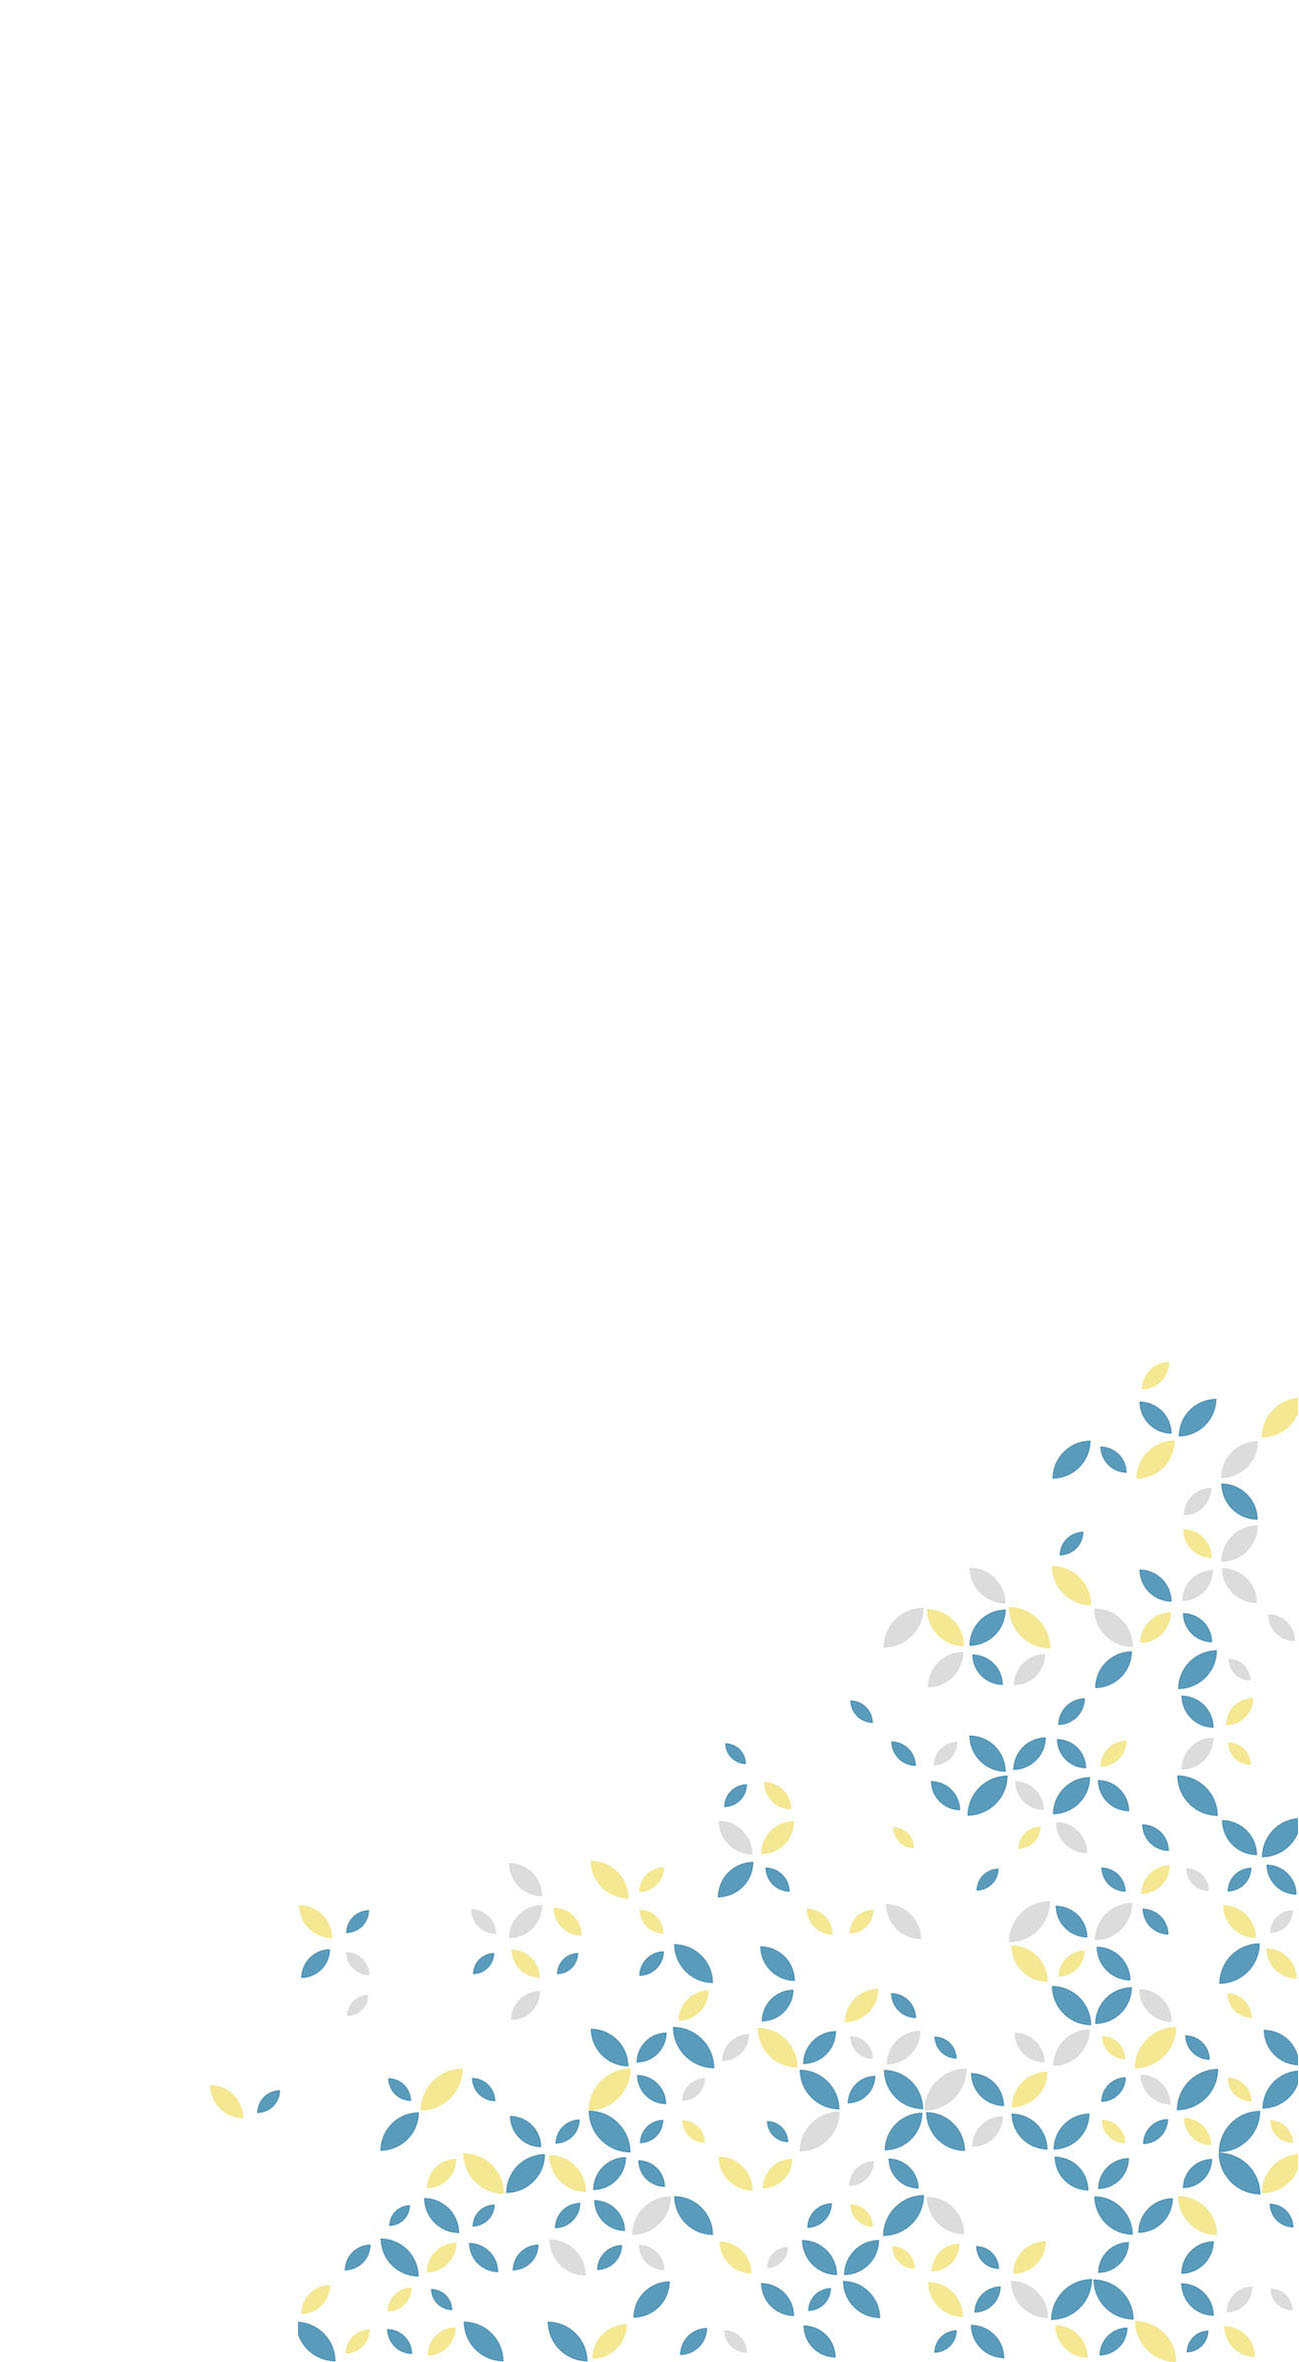
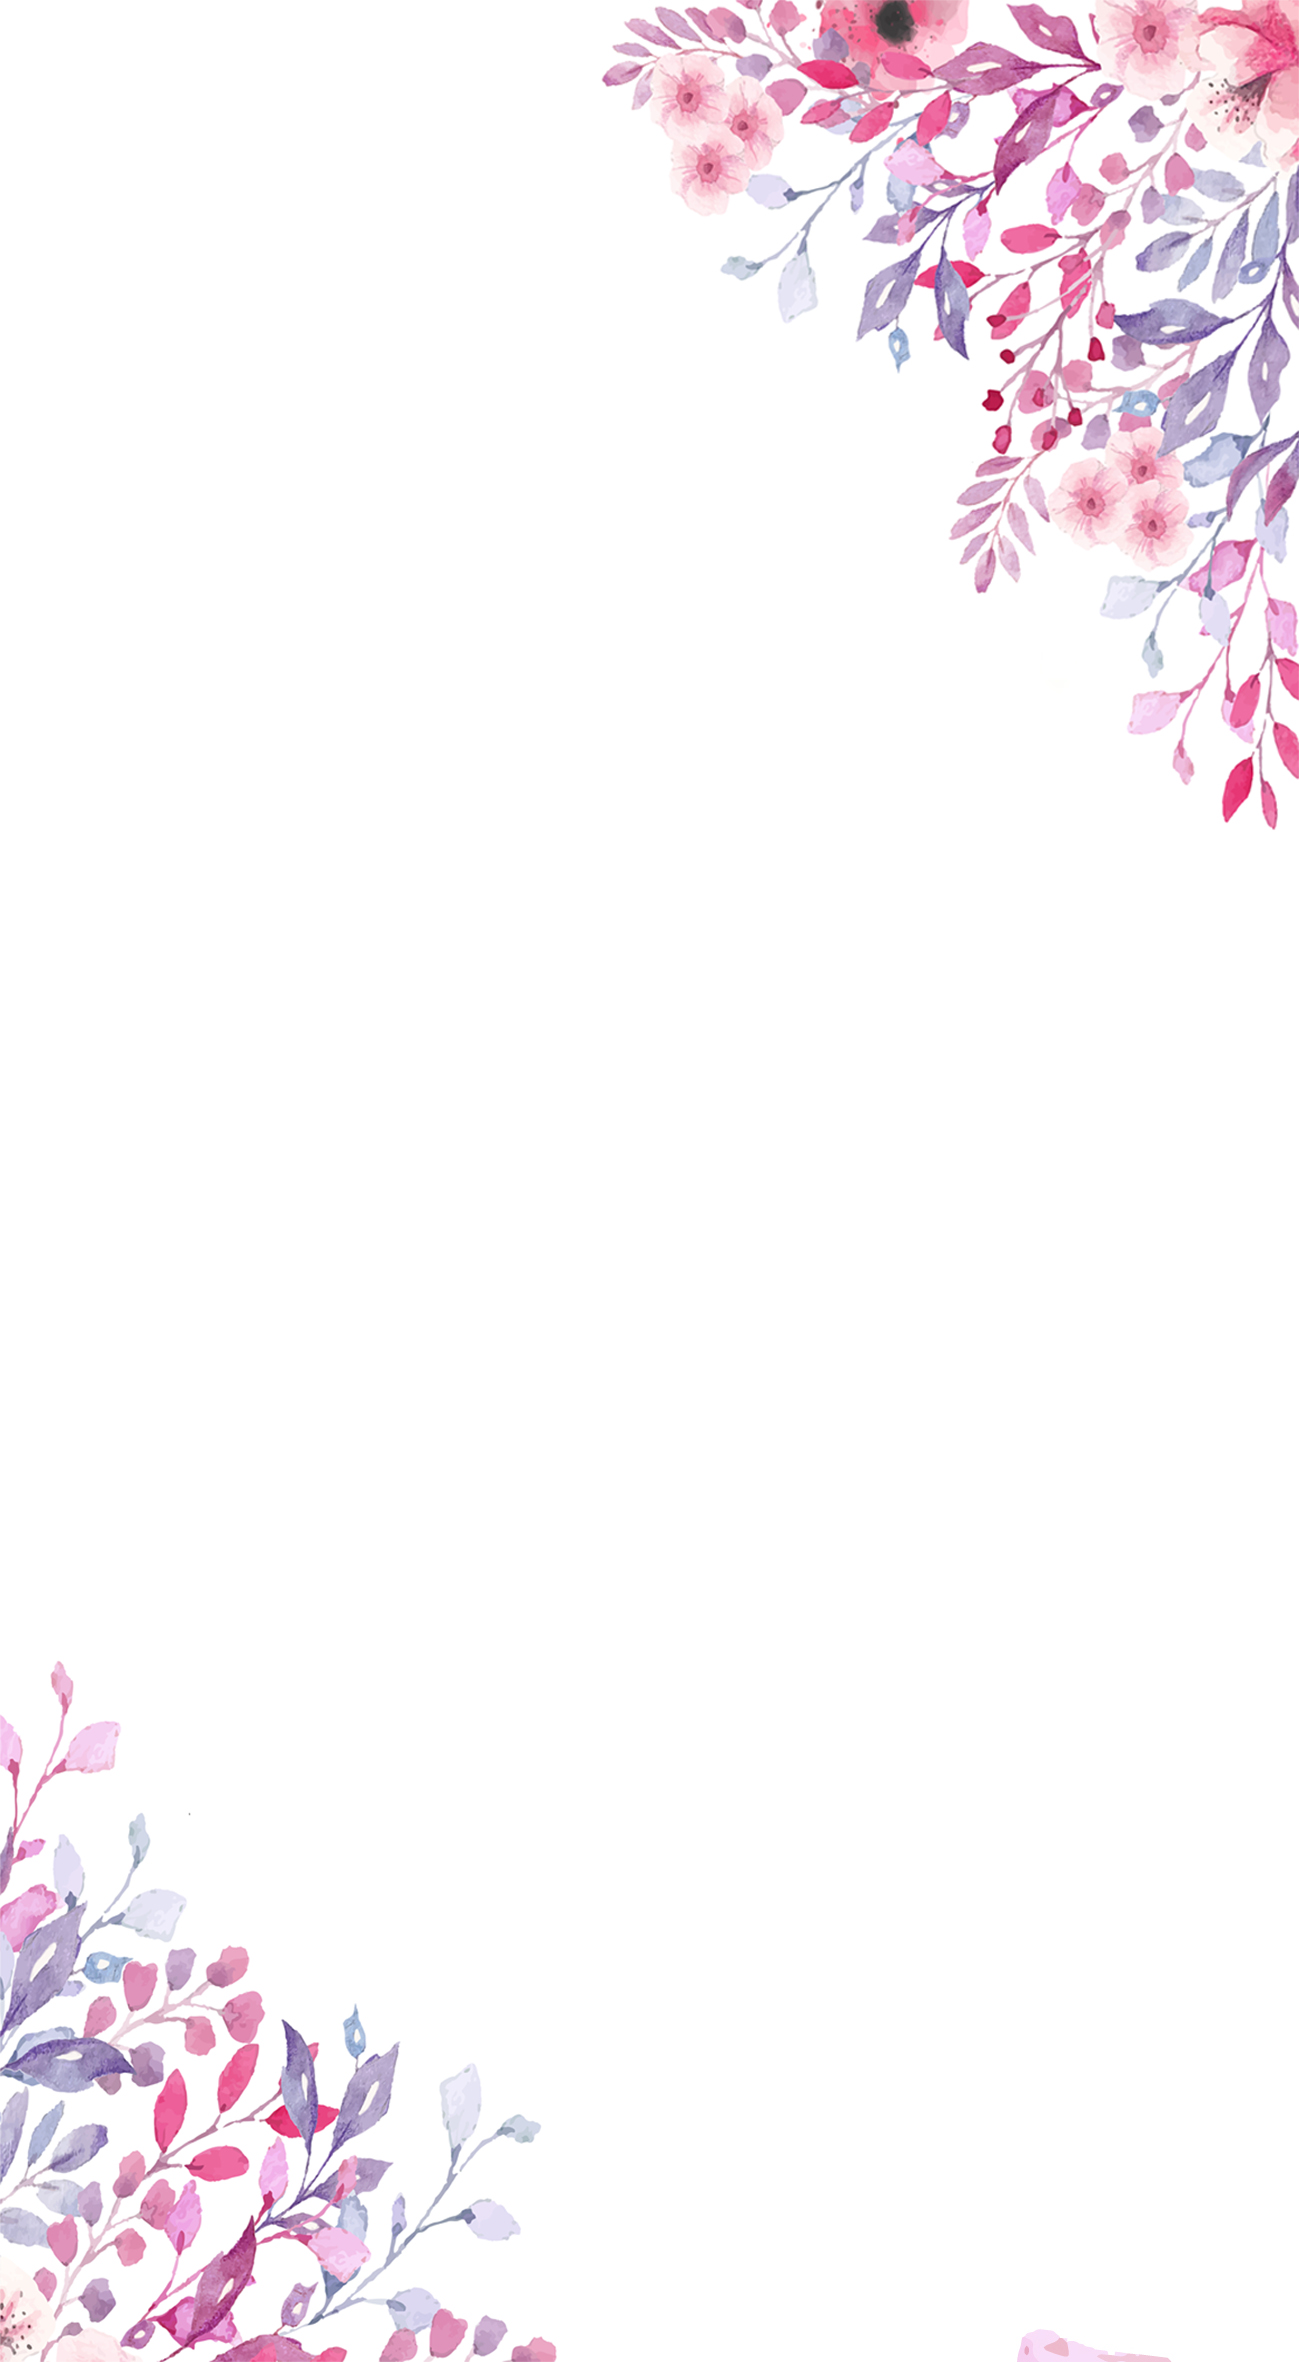
BG change

diff --git a/Homepage/assets/css/home.css b/Homepage/assets/css/home.css
@@ -1410,7 +1410,7 @@
 
 	body {
 		background-color: #FFFFFF;
-		/* background-image: url("../../images/background.jpg"); */
+		background-image: url("../../images/background.jpg"); 
 		background-size: cover;
 		background-position: top center;
 	}

diff --git a/Gallery/assets/default.css b/Gallery/assets/default.css
@@ -28,6 +28,8 @@
 	}
 	
 	ol, ul
+
+	
 	{
 		padding: 0;
 		list-style: none;
